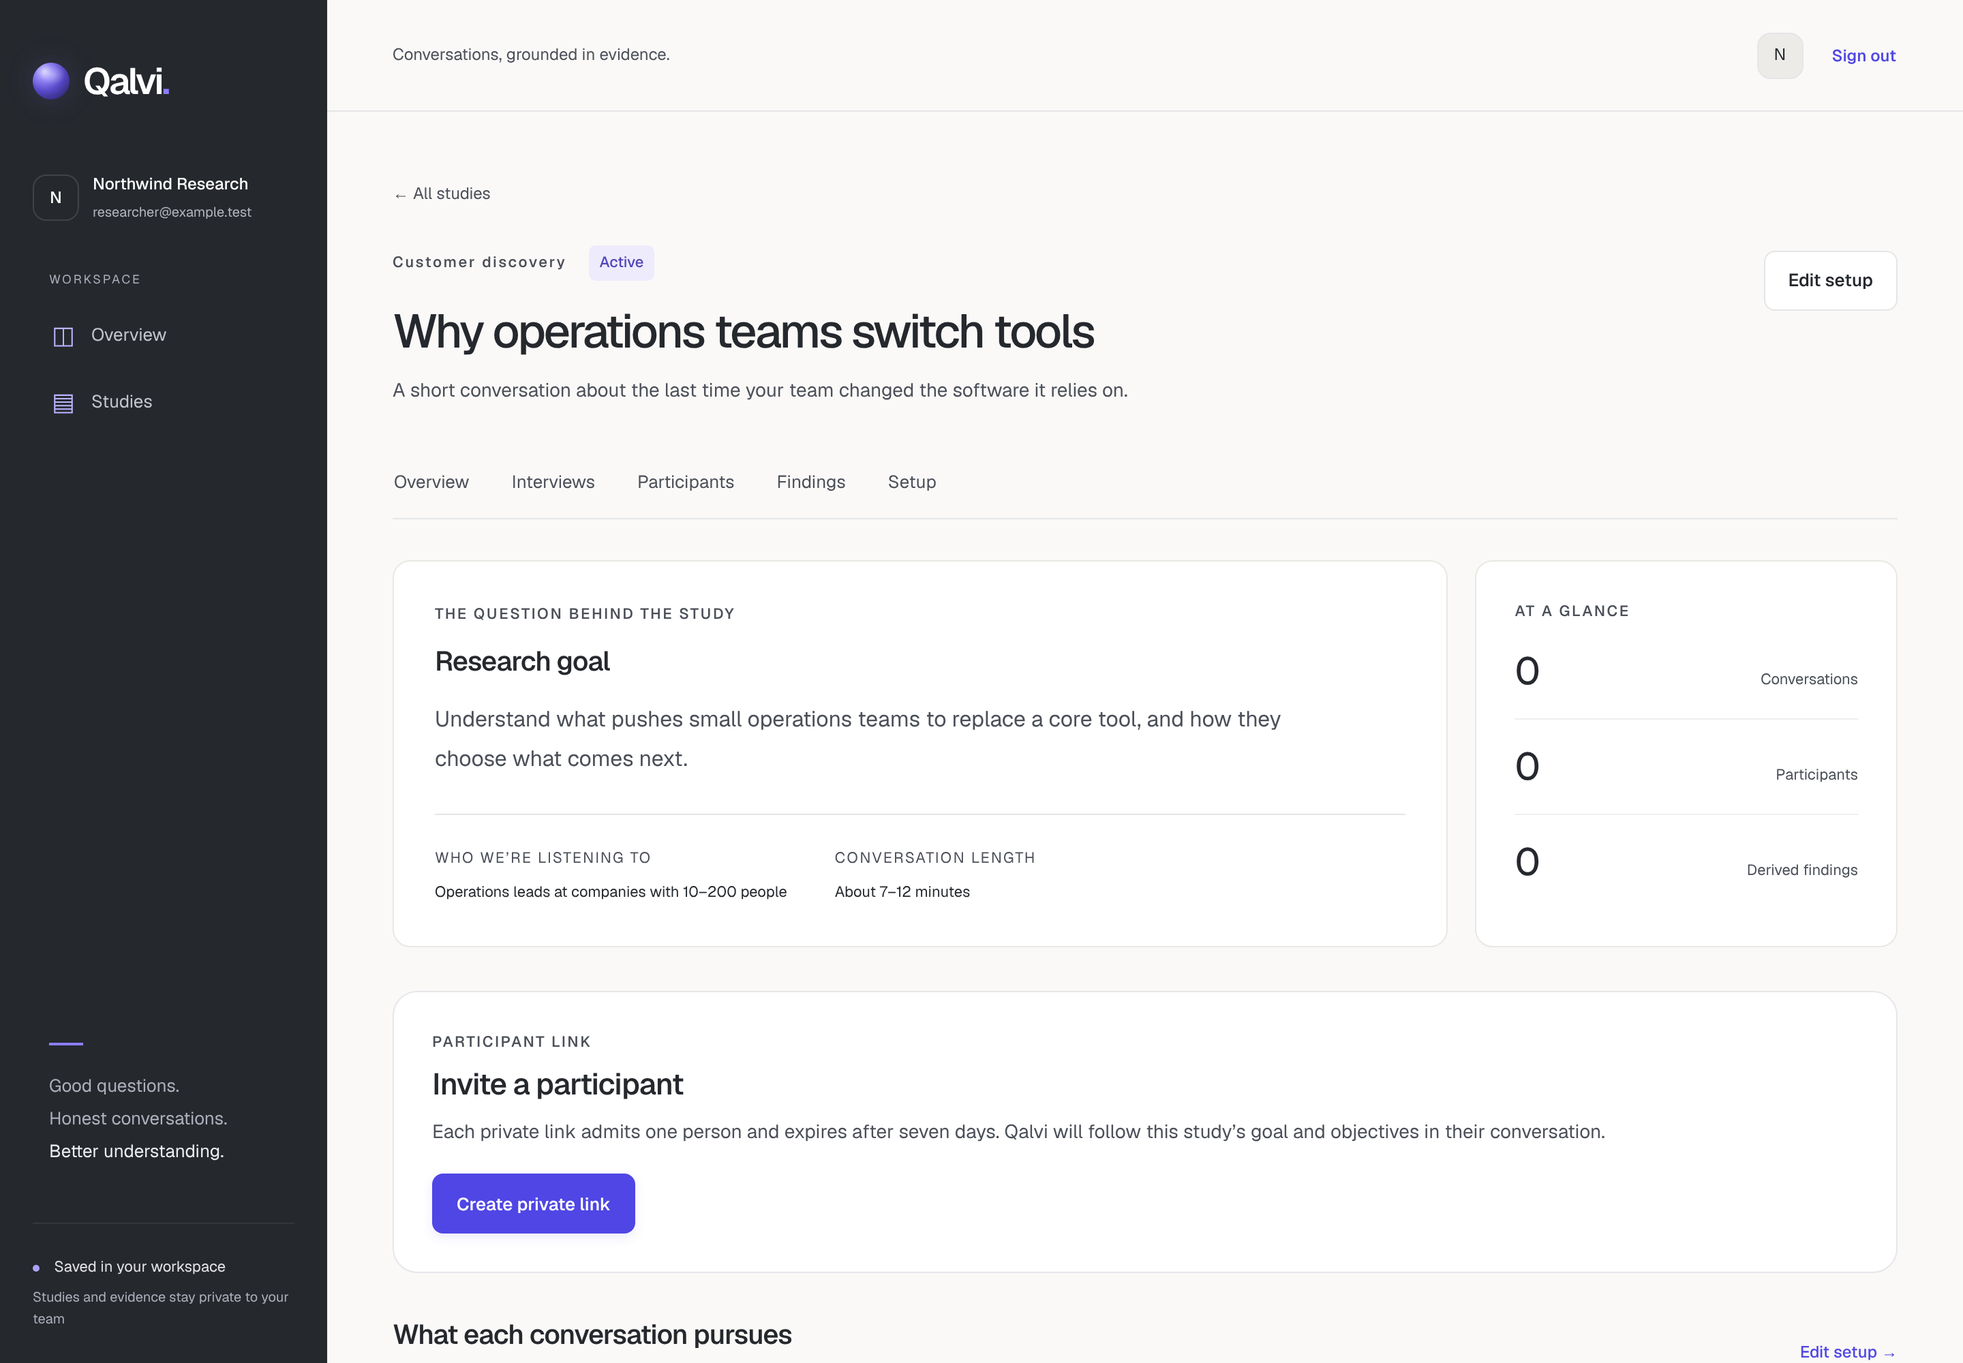
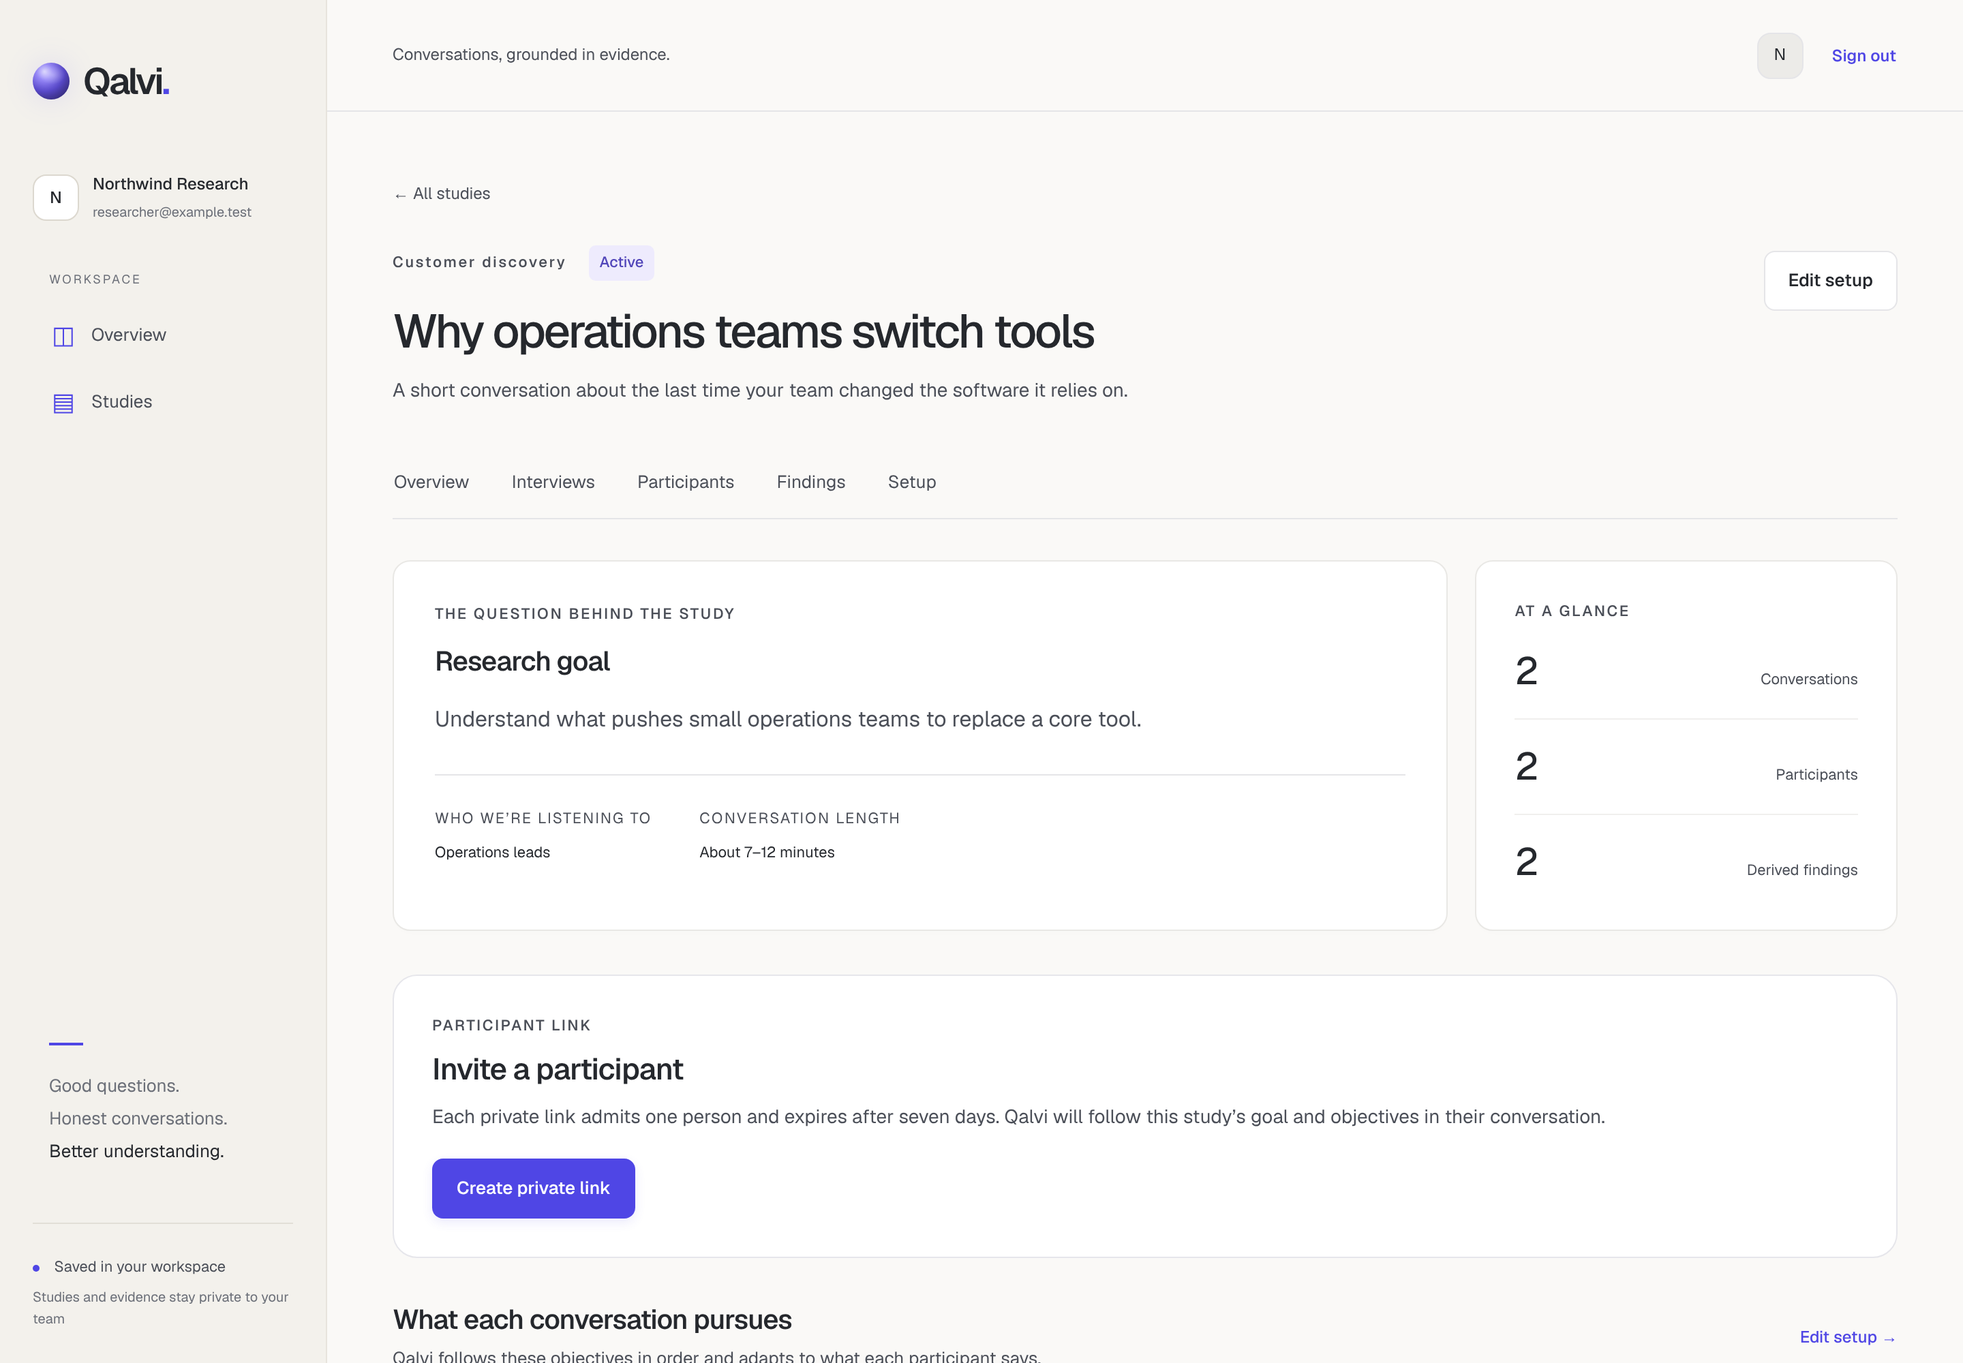
feat: light-first workspace, updated documentation and screenshots
Move the navigation rail to a warm light surface, refresh README with
architecture, security boundaries, deployment and known limitations,
and record integration status, Milestone 6 delivery and what remains
unverified against live providers.

Claude-Session: https://claude.ai/code/session_01CW5ZWRSpACCdMTFx5Ew4X4

diff --git a/src/app/(research)/research.css b/src/app/(research)/research.css
@@ -2183,3 +2183,55 @@
   min-height: 44px;
   font-size: 12px;
 }
+
+/* Light-first workspace: the navigation rail is a warm surface, not a dark slab.
+   Hierarchy comes from type weight and one quiet accent rather than contrast blocks. */
+.research-sidebar {
+  background: #f3f1ec;
+  color: var(--q-charcoal);
+  border-right: 1px solid #e7e4dd;
+}
+.research-sidebar .workspace-monogram {
+  border-color: #dcd8cf;
+  background: #fff;
+  color: var(--q-charcoal);
+}
+.research-sidebar .workspace-label small,
+.research-sidebar .sidebar-label,
+.research-sidebar .sidebar-footer small {
+  color: #6b6f78;
+}
+.research-sidebar .primary-nav a {
+  color: var(--q-graphite);
+}
+.research-sidebar .primary-nav a:hover {
+  background: #eae7e0;
+  color: var(--q-charcoal);
+}
+.research-sidebar .primary-nav a[aria-current] {
+  background: #fff;
+  color: var(--q-charcoal);
+  box-shadow: inset 2px 0 var(--q-indigo), 0 1px 2px rgb(37 40 45 / 0.06);
+}
+.research-sidebar .nav-mark {
+  color: var(--q-indigo);
+}
+.research-sidebar .sidebar-note {
+  color: #6b6f78;
+}
+.research-sidebar .sidebar-note strong {
+  color: var(--q-charcoal);
+}
+.research-sidebar .note-line {
+  background: var(--q-indigo);
+}
+.research-sidebar .sidebar-footer {
+  border-top-color: #e2dfd7;
+  color: var(--q-graphite);
+}
+.research-sidebar .sample-dot {
+  background: var(--q-indigo);
+}
+.research-sidebar .brand-dot {
+  color: var(--q-indigo);
+}

diff --git a/README.md b/README.md
@@ -16,35 +16,77 @@ must cite the messages that support them and never replace them:
 
 `Study → Participant → Conversation → Raw Evidence → Derived Findings`
 
-## What works today
+## What it does
 
-- **Researcher workspace.** Sign in, then create and edit studies: research
+- **Study setup.** A signed-in researcher creates and edits studies: research
   goal, who to interview, ordered objectives (essential or nice to have),
-  assumptions to test, and an optional on-screen visual per objective using four
+  assumptions to test, and an optional on-screen visual per objective from four
   predefined types: comparison cards, multiple choice, slider, bar chart.
-  Studies are saved in Supabase under row level security, private to the
-  workspace.
 - **Participant links.** An active study issues private, single-use links that
-  expire after seven days. The participant reads the study summary, explicitly
-  consents to transcript storage, and joins. Audio is not stored.
-- **Live interview.** A LiveKit room with a Python agent: Groq Whisper speech to
-  text, a Groq-hosted LLM, Groq Orpheus speech, and the option to type or switch
-  between voice and text at any time. The interview follows the saved study's
-  goal and objectives, never a hard-coded study.
-- **Conversational control.** Each turn is read into structured signals, and a
-  deterministic conductor decides whether to probe, redirect, show a visual,
-  skip, shorten or close. Concerns come first, covered topics are not asked
-  again, and the interviewer stays neutral rather than selling the idea.
-- **Durable evidence and recovery.** Each participant turn is committed to the
-  database, with a control decision, before Qalvi replies. A browser refresh
-  reconnects to the same conversation, and the server can move a session to a
-  backup LiveKit project before the interview starts.
-- **Demo.** `/interview/demo` runs a public, unsaved demo conversation with all
-  four interactive visuals. `/interview/demo/visuals` previews the visuals
-  without a session.
+  expire after seven days. The participant reads the study summary, consents to
+  transcript storage, and joins without an account. Audio is not stored.
+- **Live interview.** Voice or text in one conversation, switchable at any time.
+  The interviewer follows the saved study's goal and objectives. Each turn is
+  read into structured signals and a deterministic conductor decides whether to
+  probe, redirect, show a visual, skip, shorten or close.
+- **Visual evidence.** A visual is recorded before it is shown. A tapped answer
+  is rebuilt by the agent from the visual it displayed and stored atomically as
+  a transcript message plus a structured response.
+- **Recovery and lifecycle.** Every participant turn and its control decision
+  are committed before Qalvi replies. A refresh rejoins the same conversation, a
+  replacement worker replays saved decisions without repeating itself, and
+  completion, cancellation and participant ejection are durable.
+- **Results.** Researchers read original transcripts with search and speaker
+  filters, see what was shown on screen, and can request an analysis: a summary,
+  objective coverage and proposed findings. Every finding links to the exact
+  messages it rests on, including evidence against it, and stays a proposal
+  until a researcher accepts it.
+- **Demo.** `/interview/demo` runs a public, unsaved demo conversation.
 
-Study results (transcript review, findings, objective coverage) are the next
-milestone. See [docs/ROADMAP.md](docs/ROADMAP.md) for status and scope.
+## Architecture
+
+```
+Researcher browser ── Next.js (Vercel) ── Supabase Postgres + Auth (RLS)
+                          │    ▲
+Participant browser ──────┘    │ service-only RPCs
+        │                      │
+        └── LiveKit Cloud ── Python agent (Groq STT, LLM, TTS)
+```
+
+- The **web app** owns researcher pages, the participant gateway (invitation,
+  consent, resume cookie, LiveKit token) and results. It never runs the agent.
+- The **agent** runs on LiveKit Cloud. It resolves its room to one consented
+  conversation, claims a fenced writer lease, reads that conversation's study
+  plan from the database, and is the only writer of interview evidence.
+- The **database** enforces the rules that matter: immutable messages, ordered
+  idempotent appends, answers that must match what was shown, findings that must
+  cite evidence, and tenancy through composite keys and row level security.
+
+### Design decisions
+
+- AI reasons, application code calculates, React renders, the database
+  remembers. The model never authors a visual or executable code.
+- Derived data is kept apart from evidence. An analysis can fail or be re-run
+  without touching a transcript, and the UI shows cited messages themselves
+  rather than model-written quotes.
+- Control decisions are deterministic and versioned, so a replacement worker can
+  replay an interview from saved state instead of guessing.
+- Qalvi is generic. Every study, including the first pilot, is configured
+  through the same study system.
+
+### Security boundaries
+
+- Researchers act only through their own RLS session. Another workspace's
+  studies, interviews and findings do not appear.
+- Participants never sign in and are stored as pseudonymous aliases. Invitation
+  and resume capabilities are opaque tokens stored only as hashes.
+- The browser never chooses a room, identity, study or tenant, and never writes
+  evidence. Privileged operations are service-role RPCs called by server code.
+- Secrets (Supabase secret key, LiveKit secrets, Groq key, scheduler secrets)
+  are server-only and never use a `NEXT_PUBLIC_` name.
+
+See [docs/ROADMAP.md](docs/ROADMAP.md) for status and
+[docs/ARCHITECTURE.md](docs/ARCHITECTURE.md) for detail.
 
 ## Stack
 
@@ -134,13 +176,30 @@ npm test             # Node tests, including database and RLS tests
 cd agent && python -m unittest discover -p "test_*.py"   # agent tests
 ```
 
+## Deployment
+
+- **Web app:** Vercel, from this repository. Set the variables in
+  `.env.example` for Production and Preview. `vercel.json` registers a daily
+  cron that drains the interview lifecycle outbox through an authenticated GET.
+- **Agent:** LiveKit Cloud, one named worker per LiveKit project (see
+  [agent/README.md](agent/README.md)). It is a long-lived process and does not
+  run on Vercel.
+- **Database:** apply `supabase/migrations` in order with the Supabase CLI.
+
+Live demo: see the repository description for the current Vercel URL.
+
 ## Screenshots
 
-Study overview, with the research goal, objectives and a participant link:
+Interview results: the original transcript, what was shown on screen, and the
+AI interpretation kept separate below it.
+
+![Interview results](docs/screenshots/interview-results.png)
+
+Study overview with objectives and a participant link:
 
 ![Study overview](docs/screenshots/study-overview.png)
 
-Study setup: goal, audience, objectives with optional visuals, assumptions:
+Study setup:
 
 ![Study setup](docs/screenshots/study-setup.png)
 
@@ -154,8 +213,22 @@ The four predefined interactive visuals:
 
 ![Interactive visuals](docs/screenshots/interactive-visuals.png)
 
-The researcher screenshots use illustrative study content. No real participant
-data appears in this repository.
+Researcher screenshots use illustrative content. No real participant data
+appears in this repository.
+
+## Known limitations
+
+- A human microphone session in a normal browser and a spoken-turn worker
+  replacement are still pending acceptance. Automated and synthetic-audio runs
+  do not replace them.
+- An interview follows the study as saved when it starts. Editing objectives
+  during a live interview makes a later worker replacement fail closed.
+- Analysis runs when a researcher asks for it, one interview at a time. There
+  is no cross-interview synthesis yet.
+- No per-study time budget, team management, billing or recruitment.
+- The Vercel cron is daily, which suits every plan. Ejection retries also run
+  whenever an interview ends; a tighter schedule needs a paid plan or another
+  scheduler.
 
 ## Principles
 

diff --git a/docs/ARCHITECTURE.md b/docs/ARCHITECTURE.md
@@ -1027,10 +1027,47 @@ Control records made under a study use methodology `study-plan-v1`; the
 database accepts it alongside `real-default-v1`, and the default replay refuses
 it (study replay belongs to deferred Stage 2B.4B).
 
-Visuals in real rooms: before a study visual is sent, the agent records it with
+Superseded on 2026-11-16 by "Visual answers and results" below. Original note:
+visuals in real rooms: before a study visual is sent, the agent records it with
 the existing `issue_interview_visual` (writer-fenced, immutable), so what the
 participant saw is durable evidence. The room renders it as reference material
 and the participant answers by speaking or typing; that answer is an ordinary
 canonical voice/text message with its control record. Structured tap answers
 (`acknowledge_interview_visual`, `append_interview_visual_response`) need a
 control-protocol change for the `visual` channel and remain later work.
+
+## Visual answers and results (2026-11-16)
+
+Migration `20261115000100_visual_answers_and_analysis.sql`.
+
+Visual answers: the browser sends a render receipt on `qalvi.display.rendered`
+and, on confirm, the usual `[On screen]` chat message with the structured answer
+in a `qalvi.visual` attribute and a stable event id. The agent ignores the
+browser's wording. `visuals.describe_answer` rebuilds the answer from the visual
+the conductor has on screen and refuses anything that does not match it. The
+agent then calls `acknowledge_interview_visual` and
+`append_interview_visual_response` (message plus structured response in one
+transaction, validated again by the database), records the control decision,
+and only then replies. Visual answer messages carry control protocol version 1,
+so `record_interview_turn_control` and replacement replay accept them; replay
+restores the `[On screen]` marker from the `visual` channel.
+
+Replacement recovery under a study: `plan_recovery` receives the conductor built
+from the conversation's saved study plan, and every control must carry that
+conductor's methodology. If the study was edited so the plan no longer
+reproduces the saved decisions, recovery fails closed.
+
+Results: `src/lib/research/results.ts` reads conversations, messages, visual
+displays and findings through the researcher's RLS session.
+`conversation_analyses` stores one run per conversation (processing, completed,
+failed, attempts, error). `begin_conversation_analysis` prevents overlapping
+runs; `complete_conversation_analysis` saves AI findings as `proposed` with
+`origin = ai` and rejects any cited message outside the conversation.
+`src/lib/research/analysisShape.ts` builds the prompt with short message
+references and validates the reply; a finding without a real participant
+citation is dropped. The server calls Groq with `GROQ_API_KEY`; without it the
+analysis reports that it is not configured and transcripts are unaffected.
+
+Scheduler: `GET /api/internal/lifecycle-outbox` accepts only
+`Authorization: Bearer $CRON_SECRET` (Vercel Cron); the POST contract with
+`QALVI_INTERNAL_TASK_SECRET` is unchanged. `vercel.json` registers a daily run.

diff --git a/docs/ROADMAP.md b/docs/ROADMAP.md
@@ -496,19 +496,48 @@ study columns were added by hand to match the migration), deploying the
 corrected agent source to both LiveKit workers, and one live end-to-end
 acceptance run. Milestone 5 is not accepted until then.
 
-## Milestone 6 — Founder Results
+### Integration and release work (2026-11-15 to 2026-11-16)
+
+Stage 2B.4B (`stage-2b4b-integration`) was merged into the Milestone 5 branch
+rather than left deferred: writer lease and heartbeat, replacement-worker
+recovery, endings, cancellation outbox and the participant lifecycle UI are
+preserved. Replacement recovery now replays a study interview from its saved
+plan. Tapped visual answers are stored as structured evidence in real rooms
+(migration `20261115000100_visual_answers_and_analysis.sql`), replacing the
+interim answer-in-words rendering. The lifecycle outbox has an authenticated GET
+adapter for Vercel Cron.
+
+Validation on the merged tree: production build, TypeScript, lint, 171 Node
+tests (including database/RLS) and 145 Python tests pass.
+
+Still unverified against live providers, because this work was done without
+Supabase, LiveKit or Groq credentials: migrations `20261110000100`,
+`20261110000200` and `20261115000100` are not applied to the linked project,
+`src/types/database.ts` carries hand-written entries for them, the agent is not
+redeployed, and no live interview, analysis call or cron invocation has run.
+The human microphone session and spoken-turn replacement remain pending.
+
+## Milestone 6: Founder Results
+
+Status: implemented 2026-11-16, not yet accepted against live data.
 
 Goal:
 Founder can review completed research.
 
-Initial results:
-- interview list
-- transcripts
-- participant summaries
-- findings
-- objections
-- commitment signals
-- objective coverage
+Delivered:
+- interview list with status, participants, and original transcripts with
+  speaker, elapsed time, channel, search and speaker filter
+- what was shown on screen, in place in the transcript
+- researcher cancellation of a live interview from the transcript view
+- on-request analysis per interview: summary, objective coverage, and proposed
+  findings (including objections and commitment signals) that must cite
+  messages of that conversation; status and errors stored durably; re-runs keep
+  reviewed findings
+- findings view showing supporting and contradicting messages, with
+  accept/dismiss
+
+Not included: cross-interview synthesis, exports, automatic analysis on
+completion.
 
 ## Milestone 7 — Korra Pilot
 

diff --git a/docs/DECISIONS.md b/docs/DECISIONS.md
@@ -841,3 +841,26 @@ Study controls carry methodology `study-plan-v1` so they are never replayed as
 the planless default; the default replay refuses them. Study replay for a
 replacement worker belongs to deferred Stage 2B.4B. Per-study time budgets are
 not included; real interviews have no fixed limit, as before.
+
+## 2026-11-16: integrate 2B.4B, complete visual evidence and results
+
+The user asked for the remaining product to be completed and deployed. The
+2B.4B deferral of 2026-11-10 is therefore replaced by integration: its branch
+was merged into the Milestone 5 branch with both sides' behaviour kept.
+
+Structured visual answers now extend the control-before-reply protocol to the
+`visual` channel through a forward migration, instead of the interim
+answer-in-words rendering, which was removed. The agent, not the browser,
+authors the stored answer text.
+
+AI findings are proposals. They are produced only on a researcher's request,
+one interview per call, with a stored status so a failure is visible and
+retryable. Model output is validated in application code and again in the
+database, and the interface shows the cited messages rather than model quotes.
+
+The workspace navigation moved from a charcoal rail to a warm light surface to
+make light mode the primary experience. The orb, indigo accent and typography
+are unchanged.
+
+None of this has been exercised against the live Supabase, LiveKit or Groq
+services. It must not be recorded as accepted until it has.

diff --git a/agent/README.md b/agent/README.md
@@ -33,7 +33,8 @@ after genuine inactivity. The demo plan and its ten-minute budget apply only to
 study (Milestone 5): `study.py` reads the plan for the claimed conversation
 through the fenced writer, re-validates it, and builds the steps; objectives may
 have no visual, study visuals are recorded with `issue_interview_visual` before
-they are shown and answered in words, and there is no time budget. A real room
+they are shown, tapped answers are rebuilt from the displayed visual and stored
+with `append_interview_visual_response`, and there is no time budget. A real room
 without a usable study plan does not start. Requires
 `livekit-agents >= 1.8`.
 
